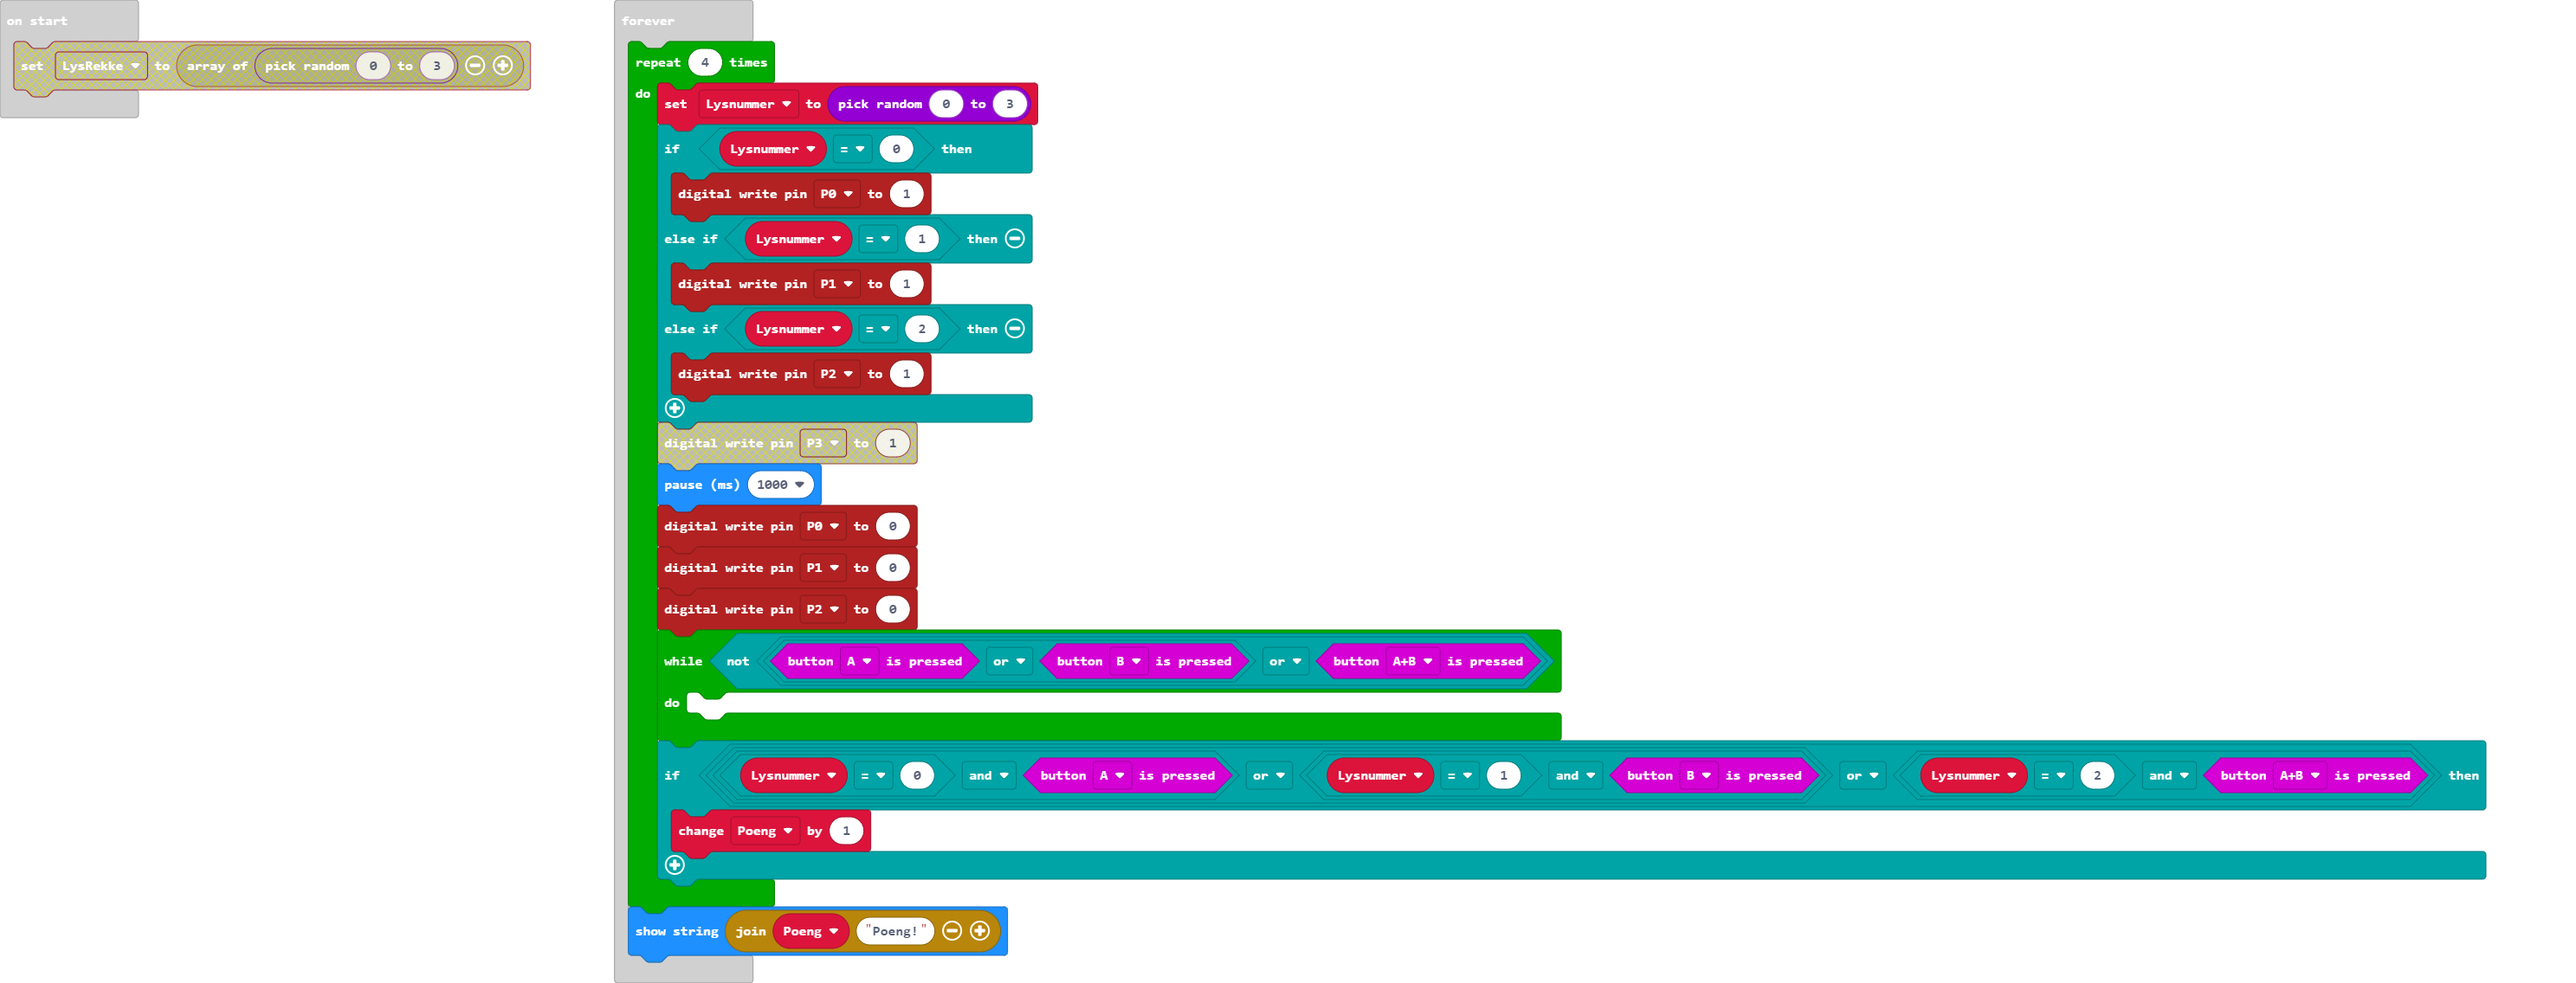
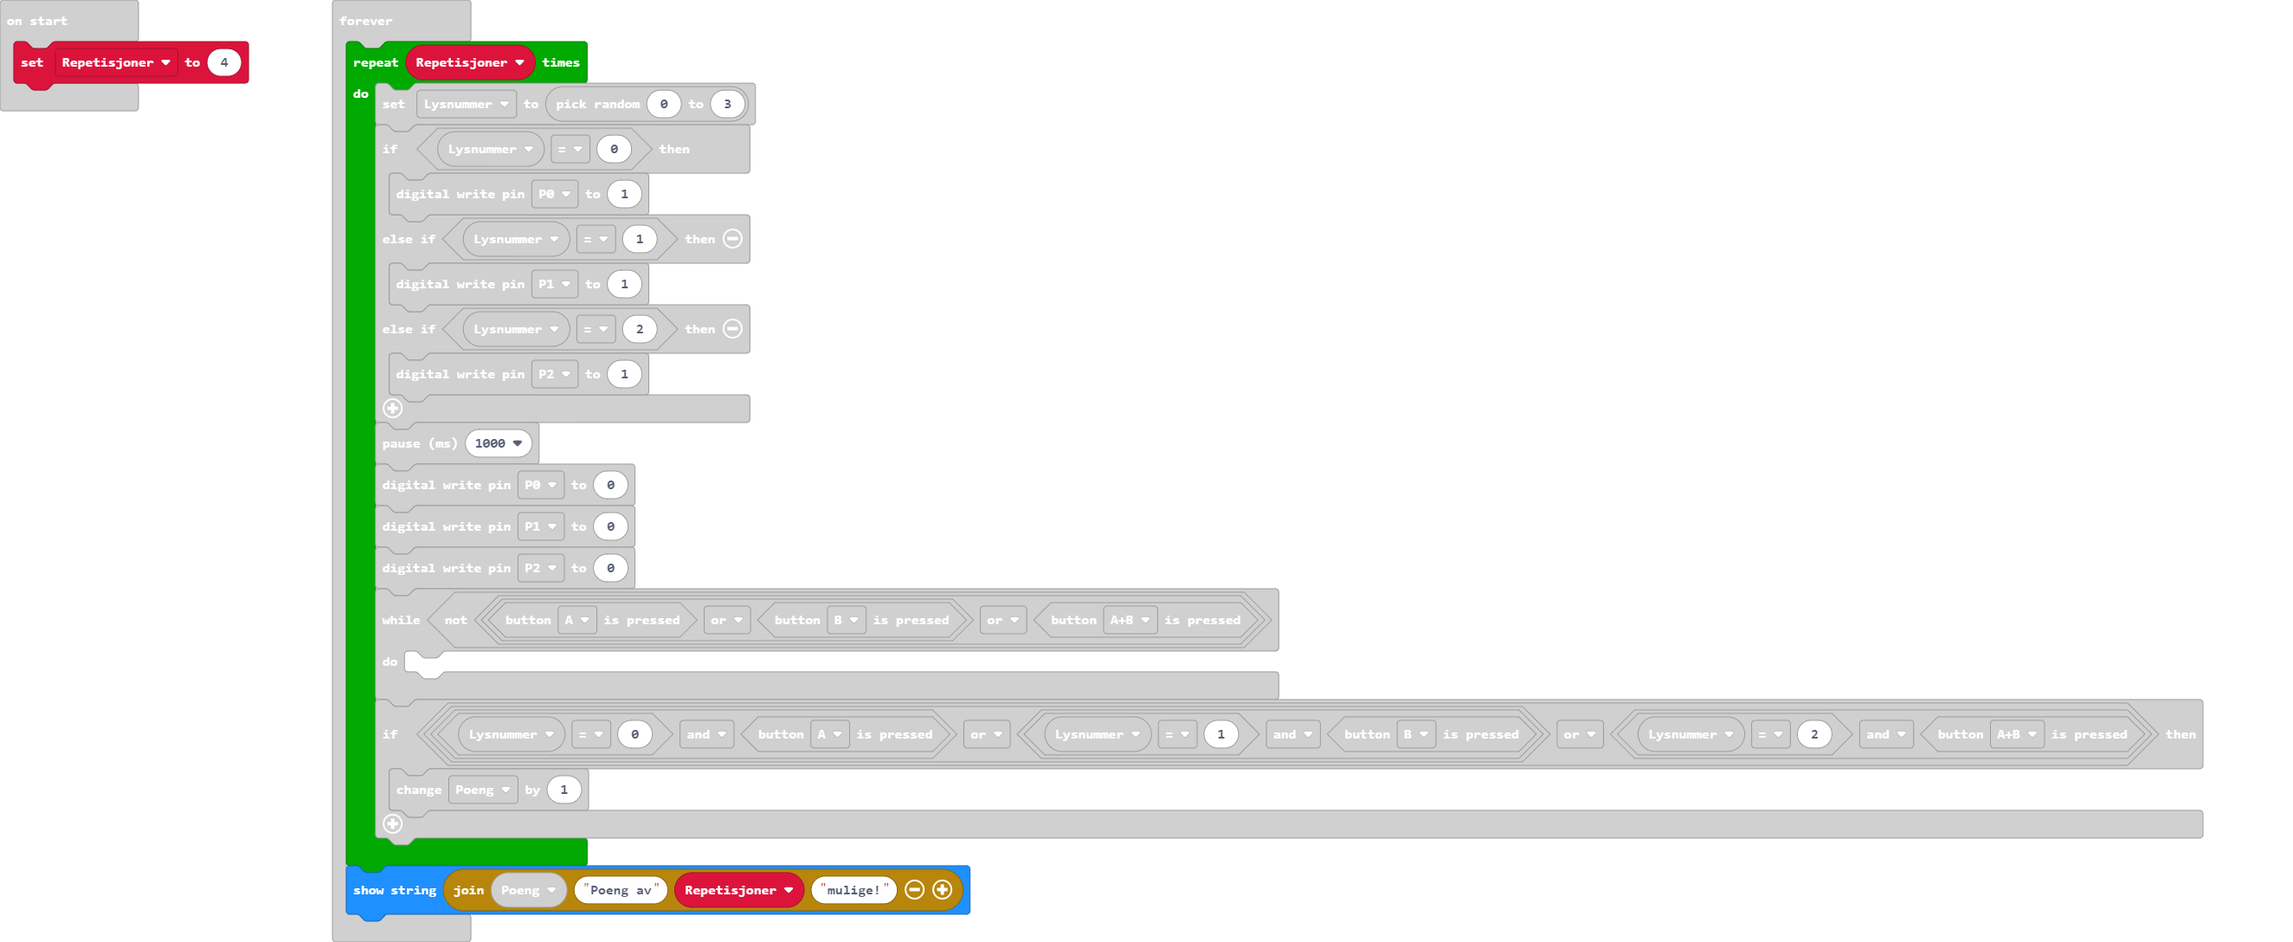
Update main.blocks, main.ts

diff --git a/main.ts b/main.ts
@@ -1,7 +1,8 @@
-let Lysnummer = 0
 let Poeng = 0
+let Lysnummer = 0
+let Repetisjoner = 4
 basic.forever(function () {
-    for (let index = 0; index < 4; index++) {
+    for (let index = 0; index < Repetisjoner; index++) {
         Lysnummer = randint(0, 3)
         if (Lysnummer == 0) {
             pins.digitalWritePin(DigitalPin.P0, 1)
@@ -21,5 +22,5 @@ basic.forever(function () {
             Poeng += 1
         }
     }
-    basic.showString("" + Poeng + "Poeng!")
+    basic.showString("" + Poeng + "Poeng av" + Repetisjoner + "mulige!")
 })
